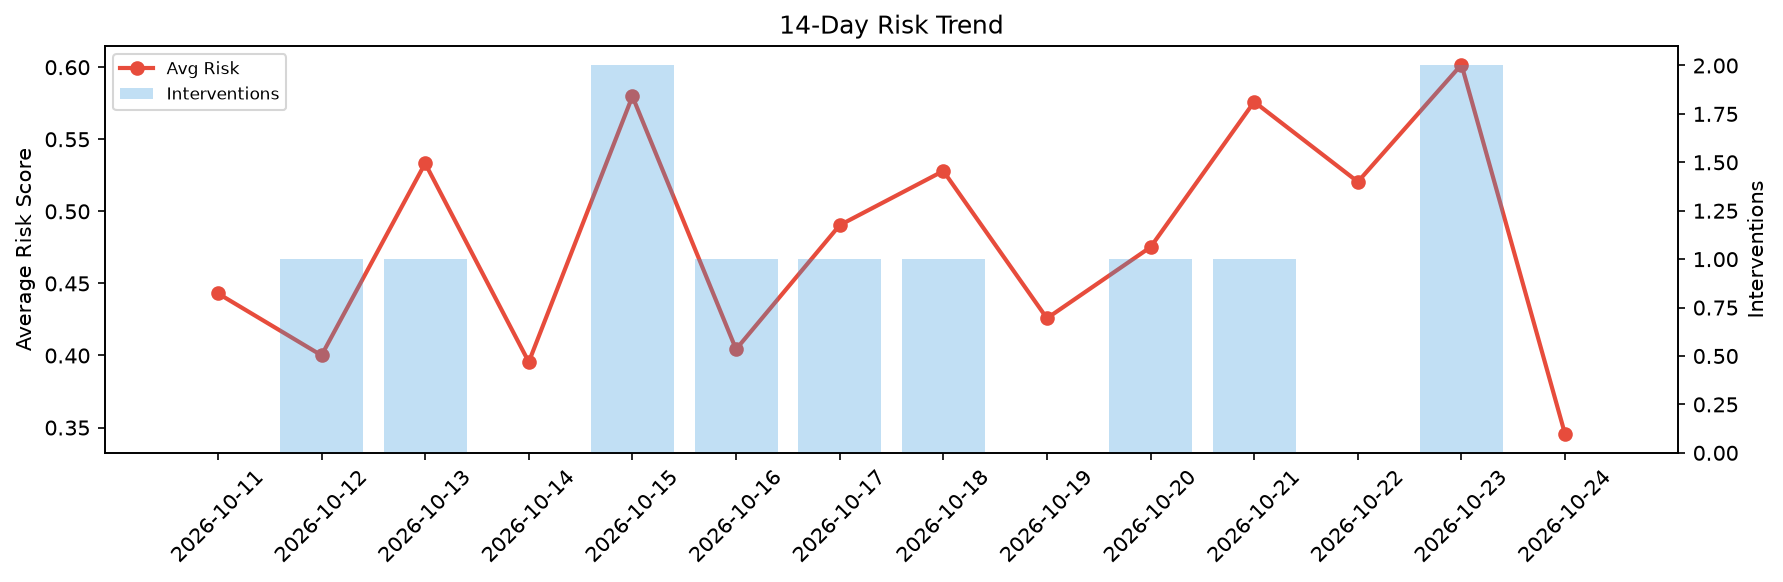
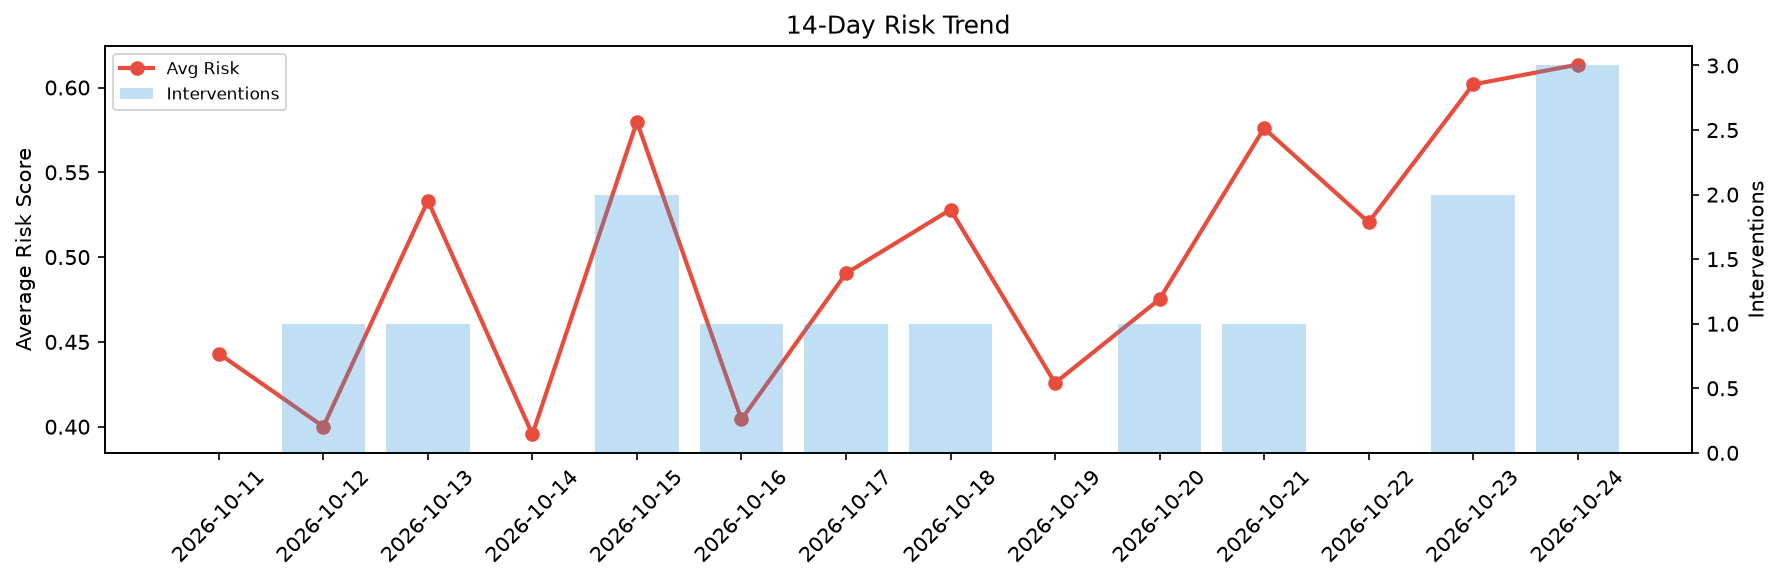
agent-improvement: daily cycle 2026-10-24T12:40

diff --git a/logs/2026-10-24.md b/logs/2026-10-24.md
@@ -1,6 +1,6 @@
 # Agent Improvement Report — 2026-10-24
 
-**Cycle ID:** `8b55c6b6` | **Avg Risk:** 0.3453 | **Interventions:** 0/4
+**Cycle ID:** `611f089e` | **Avg Risk:** 0.6135 | **Interventions:** 3/4
 
 ![Dashboard](2026-10-24_dashboard.png)
 
@@ -10,18 +10,18 @@
 
 | Domain | Risk Score | Decision | Alerts |
 |--------|-----------|----------|--------|
-| code_review | 0.4 | monitor | none |
-| incident_response | 0.246 | monitor | none |
-| data_pipeline | 0.3964 | monitor | none |
-| deployment | 0.3388 | monitor | none |
+| code_review | 0.6562 | intervene | coverage |
+| incident_response | 0.6547 | intervene | mttr |
+| data_pipeline | 0.5406 | monitor | schema_drift |
+| deployment | 0.6024 | intervene | latency_p99 |
 
 ## Delta vs Yesterday
 
 | Domain | Today | Yesterday | Change |
 |--------|-------|-----------|--------|
-| code_review | 0.4 | 0.4635 | 📉 -13.7% |
-| incident_response | 0.246 | 0.4673 | 📉 -47.4% |
-| data_pipeline | 0.3964 | 0.7626 | 📉 -48.0% |
-| deployment | 0.3388 | 0.7139 | 📉 -52.5% |
+| code_review | 0.6562 | 0.4635 | 📈 41.6% |
+| incident_response | 0.6547 | 0.4673 | 📈 40.1% |
+| data_pipeline | 0.5406 | 0.7626 | 📉 -29.1% |
+| deployment | 0.6024 | 0.7139 | 📉 -15.6% |
 
 **Refinement:** `{'adjustment': 'maintain', 'trend': 'improving', 'window': 4}`
